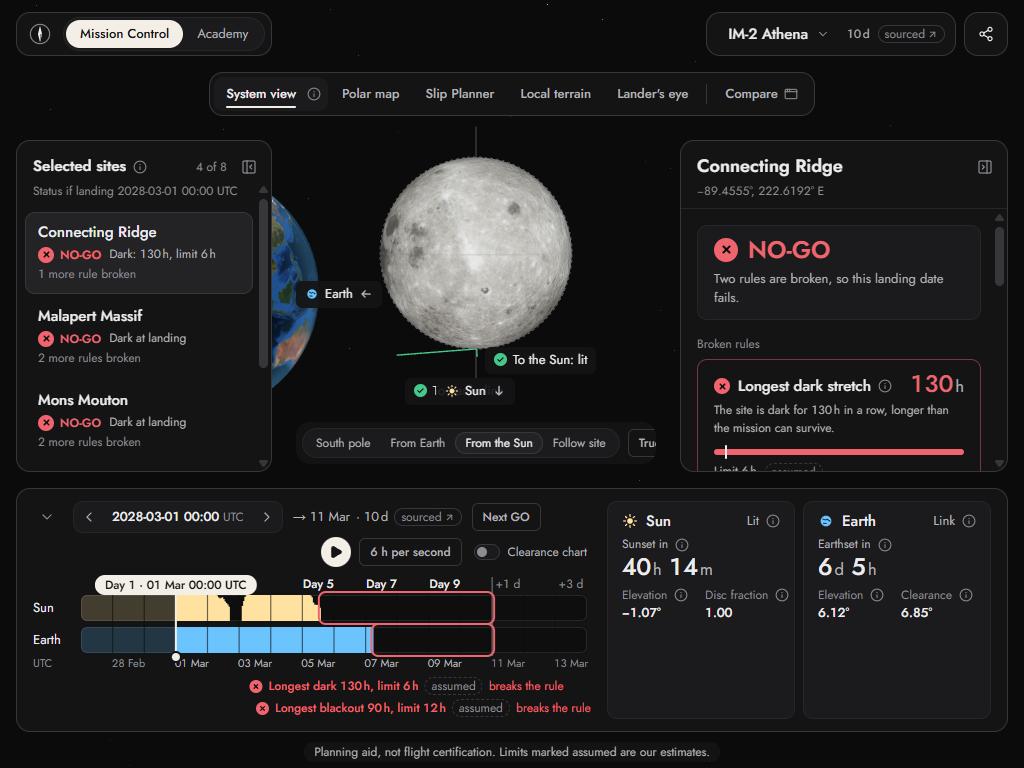
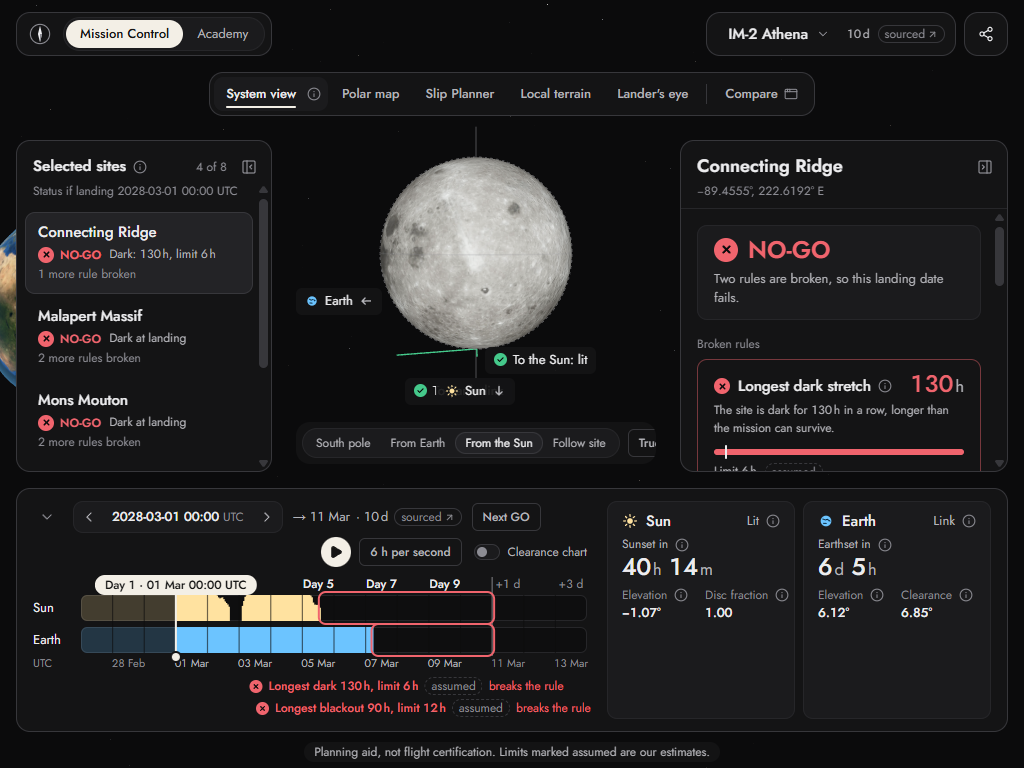
DEVLOG and captures: the Moon's opening back, Earth and the Sun farther, True-scale toggle
Captures retaken (opening, one step out, Earth in view, all three, From Earth, From the
Sun, True scale, mid-toggle both ways) plus side-by-side openings with main.

Changed region(s): [[0.25, 0.25, 0.375, 0.5], [0.0, 0.3125, 0.0312, 0.5]]

diff --git a/DEVLOG.md b/DEVLOG.md
@@ -1267,47 +1267,61 @@ Every one of the 65 proposed keys has a definition, source arrays, availability,
 
 #### 2026-11-14 · System view proportions · Earth and the Sun read larger and farther than the Moon
 - **Who:** Claude Code agent, for the orchestrator
-- **AI use:** Claude Code, claude-opus-5-5 — wrote `proportions.ts` (the drawn sizes and
-  distances, Earth's fade in front of the Moon) and its vitest tests against the stored
-  `system.bin` fixture, the new home framing in `camera.ts`, Earth's edge marker in
-  `overlay.tsx`, the About sentence and the spec changes; no AI-generated imagery — checked
-  by the agent with the vitest suite, typecheck, build, pytest, and by eye in Chrome with
-  hardware WebGL (RTX 2060) at 1440 × 900 and 1024 × 768, panels open and folded; a human
-  has not reviewed it
+- **AI use:** Claude Code, claude-opus-5-5 — wrote `proportions.ts` (drawn sizes and
+  distances, Earth's fade in front of the Moon, Earth and the Sun during the True-scale
+  flight) and its vitest tests against the real `data/derived/system.bin`, the opening frame
+  in `camera.ts`, the rig's `scaleBlend`, Earth's edge marker in `overlay.tsx`, the
+  reconciled `lib/geo/placement.ts`, the About sentence and the spec; no AI-generated imagery
+  — checked by the agent with the vitest suite, typecheck, build, and by eye in Chrome with
+  hardware WebGL (RTX 2060) at 1440 × 900 and 1024 × 768, panels open and folded, including
+  a frame-by-frame sample of the True-scale toggle both ways; reviewed by Codex
+  (gpt-6.1-terra), whose findings are addressed below; a human has not reviewed it
 - **State:** built, not verified
 - **Changed:** `web/src/features/three/scene/` (`proportions.ts` and its test are new;
-  `camera.ts` home framing, `world.ts` Sun placement and Earth fade, `materials.ts` Earth
-  opacity, `rig.ts` zoom-out limit, `overlay.tsx` Earth edge marker, two placement lines in
-  `scene-root.tsx`, the home tests in `scene-logic.test.ts` and two trackball tests'
-  starting pose in `navigate.test.ts`), `web/src/lib/explain.ts` (`system_view`),
+  `camera.ts` opening frame, `rig.ts` zoom-out limit and `scaleBlend`, `world.ts` placement
+  and Earth's fade and light comment, `materials.ts` Earth opacity, `overlay.tsx` Earth edge
+  marker, one placement line, the imports and one `scaleBlend` line in `scene-root.tsx`,
+  tests in `scene-logic.test.ts`, `navigate.test.ts`, `rig.test.ts`), `web/src/lib/geo/`
+  (`placement.ts`, its test and `index.ts`), `web/src/lib/explain.ts` (`system_view`),
   `docs/features/system-view.md`, `docs/design/c2/built-system-proportions-*.png`, this entry
 - **Notes:**
-  - **The rule:** drawn sizes and distances are the cube root of the true values relative
-    to the Moon (`SIZE_EXPONENT`, `DISTANCE_EXPONENT`, `DISTANCE_SCALE` in
-    `proportions.ts`, with the true values beside them). Moon 1, Earth 1.54, Sun 7.37 Moon
-    radii; Earth about 4.5 Moon radii out (4.42 to 4.62 from perigee to apogee), the Sun
-    about 33, 7.3 times further. Before: both at 2.5, Earth 0.4 and the Sun 0.12. Being one
-    increasing rule, the order of sizes and distances cannot invert. Directions are
-    untouched (`system.bin`); true scale is unchanged.
-  - **Opening framing:** the Moon and Earth side by side across the free space, both in
-    frame and as large as fit (the camera slides sideways to centre the pair). The Sun is
-    marked at the edge; a zoom out or "From the Sun" brings it in. The Moon's radius at
-    1440 × 900 with panels open is about 100 px (was about 135); at 1024 × 768 about 45.
-  - **Zoom out** now reaches 600 Moon radii (was 40), so all three fit even at 1024 × 768;
-    there the Moon and Earth are a few pixels across, which is the point.
-  - **"From Earth"** used to show the back of Earth covering the Moon (see the before
-    capture). Earth now fades to a 15 % ghost while it covers the Moon, and hides when the
-    camera is inside it. Earth also gets an edge marker like the Sun's.
-  - Tests check, over every hour of the stored series: monotonic mapping, Moon < Earth <
-    Sun, the Sun at least 7 times further than Earth, directions equal to the series, no two
-    bodies touching (perigee and apogee included), sight-lines from any site pointing into
-    the drawn Earth and Sun, and true scale's real ratios.
-  - Not measured: a weak GPU. Nothing new is loaded (no texture); Earth is now drawn in the
-    transparent pass, and the Sun's disc is larger on screen when zoomed out. The quality
-    governor stayed on stage 0 on the RTX 2060.
-  - `lib/geo/placement.ts` still exports `SQUEEZED_DISTANCE`, `SQUEEZED_EARTH_RADIUS`,
-    `SQUEEZED_SUN_RADIUS` and `sunPlacement`; the scene no longer uses them (this package
-    was limited to `web/src/features/three/`). The geo owner can remove them.
+  - **The team lead's direction (second round):** the Moon is the subject of the opening
+    view, and Earth and the Sun should read as far away, never as the focus. The opening
+    frame is `main`'s exactly (`OPENING_FRAME` in `camera.ts` fits the Moon as when the
+    bodies were drawn 2.5 Moon radii out). Moon radius on screen, `main` and this branch:
+    134.1 px at 1440 × 900 and 63.5 px at 1024 × 768 with panels open; with both panels
+    folded, 134.3 px and 79.0 px (the same pose function, tested). The Moon's region of the
+    1440 × 900 opening capture is pixel-identical to `main`'s. Returning from another view
+    and "Follow site" are as on `main`.
+  - **Proportions** (`proportions.ts`, one constant each): drawn radius = (true ÷ Moon)^0.25,
+    so Moon 1, Earth 1.38, Sun 4.47; drawn distance = 1.35 × (true ÷ Moon radius)^0.3, so
+    Earth 6.67 to 6.94 Moon radii (perigee to apogee) and the Sun 40.6 to 41.1, about 6
+    times further. Earth sits just outside the opening frame in every layout tested (a
+    sliver of it can show in the window behind the panels); three zoom steps show its
+    edge on a laptop, five bring it into view, and all three bodies fit at about 200
+    Moon radii (1440 × 900) and 370 (1024 × 768). The zoom-out limit is 580 (was 40),
+    tested to be within a fifth of the minimum that shows the Sun at 1024 × 768.
+  - **True scale:** the rig carries `scaleBlend` with the flight the toggle starts, so Earth
+    glides between 6.9 and 228.7 Moon radii on a log scale in step with the camera (and at
+    once with reduced motion). Sampled every frame at both sizes, from the opening, "From
+    Earth" and a zoomed-out view, both ways: about 230 frames per toggle, no frame moves
+    Earth more than about 3 % of its distance, the Moon never leaves the frame, and the Sun
+    is carried out and hidden only at the end. From "From Earth", Earth passes the camera
+    and is hidden while the camera is inside it.
+  - **Review (Codex, #106):** the rule is pinned (constants and the formula to 1e-12; an
+    exponent of 1/3 now fails) and checked over all 52,584 hours of the real series:
+    ordering, minimum surface gaps (Moon to Earth 4.28, Moon to Sun 35.1, Earth to Sun
+    27.9), the Sun-to-Earth ratio 5.85 to 6.15; zero maps to zero and negative or
+    non-finite inputs to zero, never NaN. Earth stays lit from the series' Sun direction
+    (true phase; up to 9.8° from the drawn offset), pinned by a test through `World`.
+    `lib/geo/placement.ts` no longer has the 2.5-radius arrangement (`SQUEEZED_*`,
+    `sunPlacement`); `earthPlacement` is now `trueEarthPlacement`; no other caller existed
+    (the Academy does not use it). The spec's duplicate True-scale bullet is gone, and the
+    sight-lines are described as short direction marks.
+  - **"From Earth"** still needs Earth's fade (Earth stands between the camera and the
+    Moon); it fades to a 15 % ghost. "From the Sun" and "Follow site" keep the Moon as the
+    subject, with Earth outside the free space.
+  - Not measured: a weak GPU. Nothing new is loaded; Earth draws in the transparent pass.
 
 #### 2026-11-14 · T7b · The Moon around the Polar map's detailed square
 - **Who:** implementation agent, for the orchestrator
